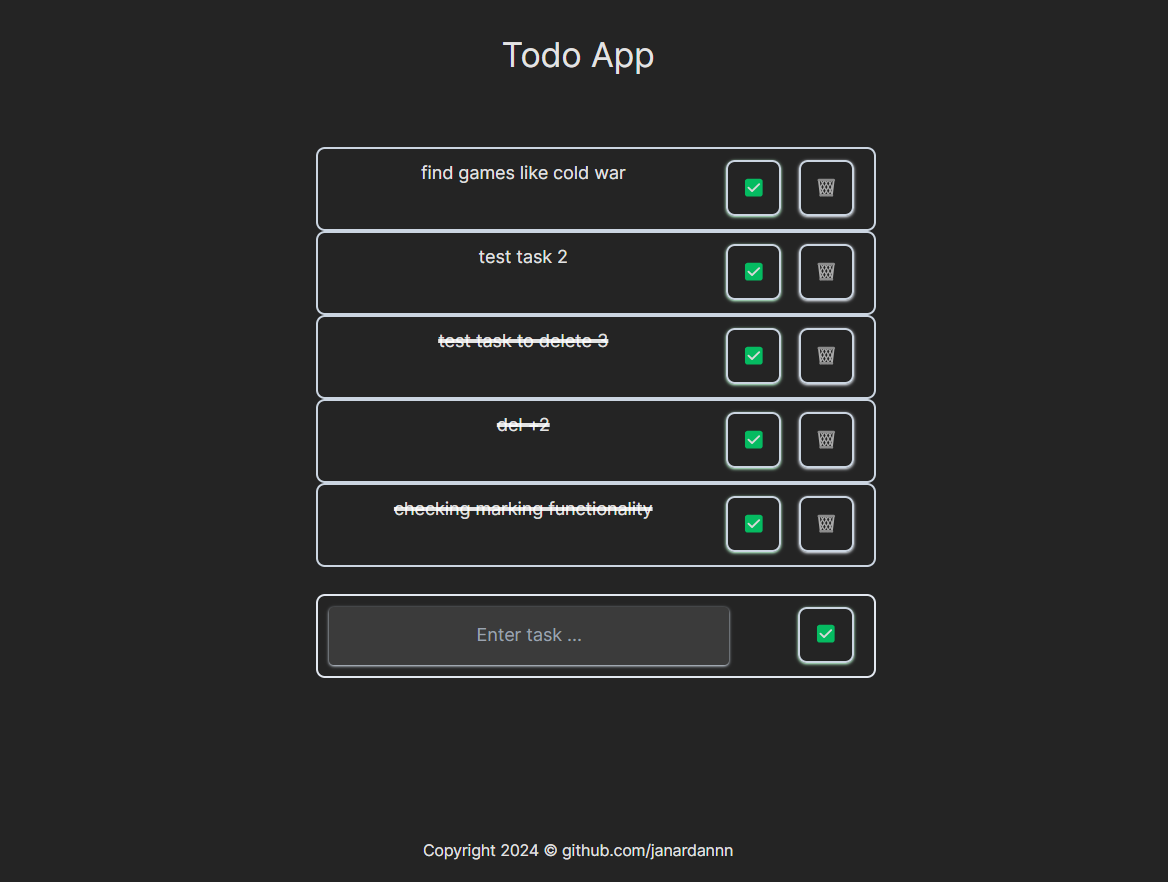
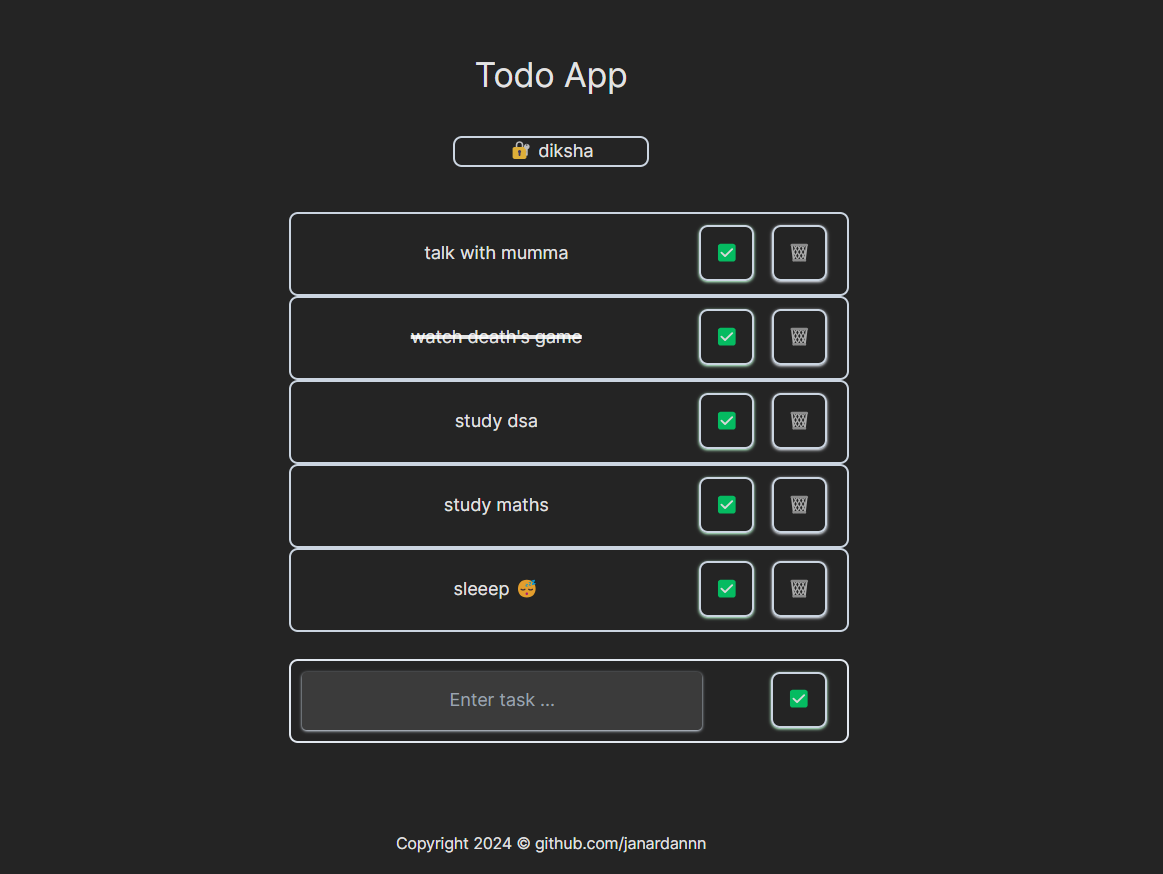
cosmetic changes

Changed region(s): [[0.2476, 0.1545, 0.7739, 0.865], [0.4024, 0.0309, 0.5572, 0.1236], [0.3405, 0.9577, 0.6191, 0.9886]]

diff --git a/client/src/components/Header.tsx b/client/src/components/Header.tsx
@@ -15,8 +15,8 @@ export default function Header(props) {
 
     return (
         <div className="flex flex-col justify-center">
-            <h1 className="text-3xl text-center mt-8 mb-8">Todo App</h1>
-            <button onClick={handleLogout} onMouseOver={e => { setBtnText("Log out!") }} onMouseOut={e => { setBtnText(props.username) }} className="mb-8 mx-auto text-center border-2 border-slate-300 rounded-lg my-[0.3rem] w-[175px] hover:bg-red-600">{btnText}</button>
+            <h1 className="text-3xl text-center mt-16 mb-8">Todo App</h1>
+            <button onClick={handleLogout} onMouseOver={e => { setBtnText("Log out!") }} onMouseOut={e => { setBtnText(`🔐  ${props.username}`) }} className="mb-10 mx-auto text-center border-2 border-slate-300 rounded-lg my-[0.3rem] w-[175px] hover:bg-red-600">{btnText}</button>
         </div>
     )
 }

diff --git a/client/src/components/Footer.tsx b/client/src/components/Footer.tsx
@@ -1,5 +1,5 @@
 export default function Footer() {
     return (
-        <p className="text-[14px] text-center mt-36 mb-8">Copyright 2024 © <a href="https://github.com/janardannn/">github.com/janardannn</a></p>
+        <p className="text-[14px] text-center mt-[9rem] mb-8">Copyright 2024 © <a href="https://github.com/janardannn/">github.com/janardannn</a></p>
     )
 }
